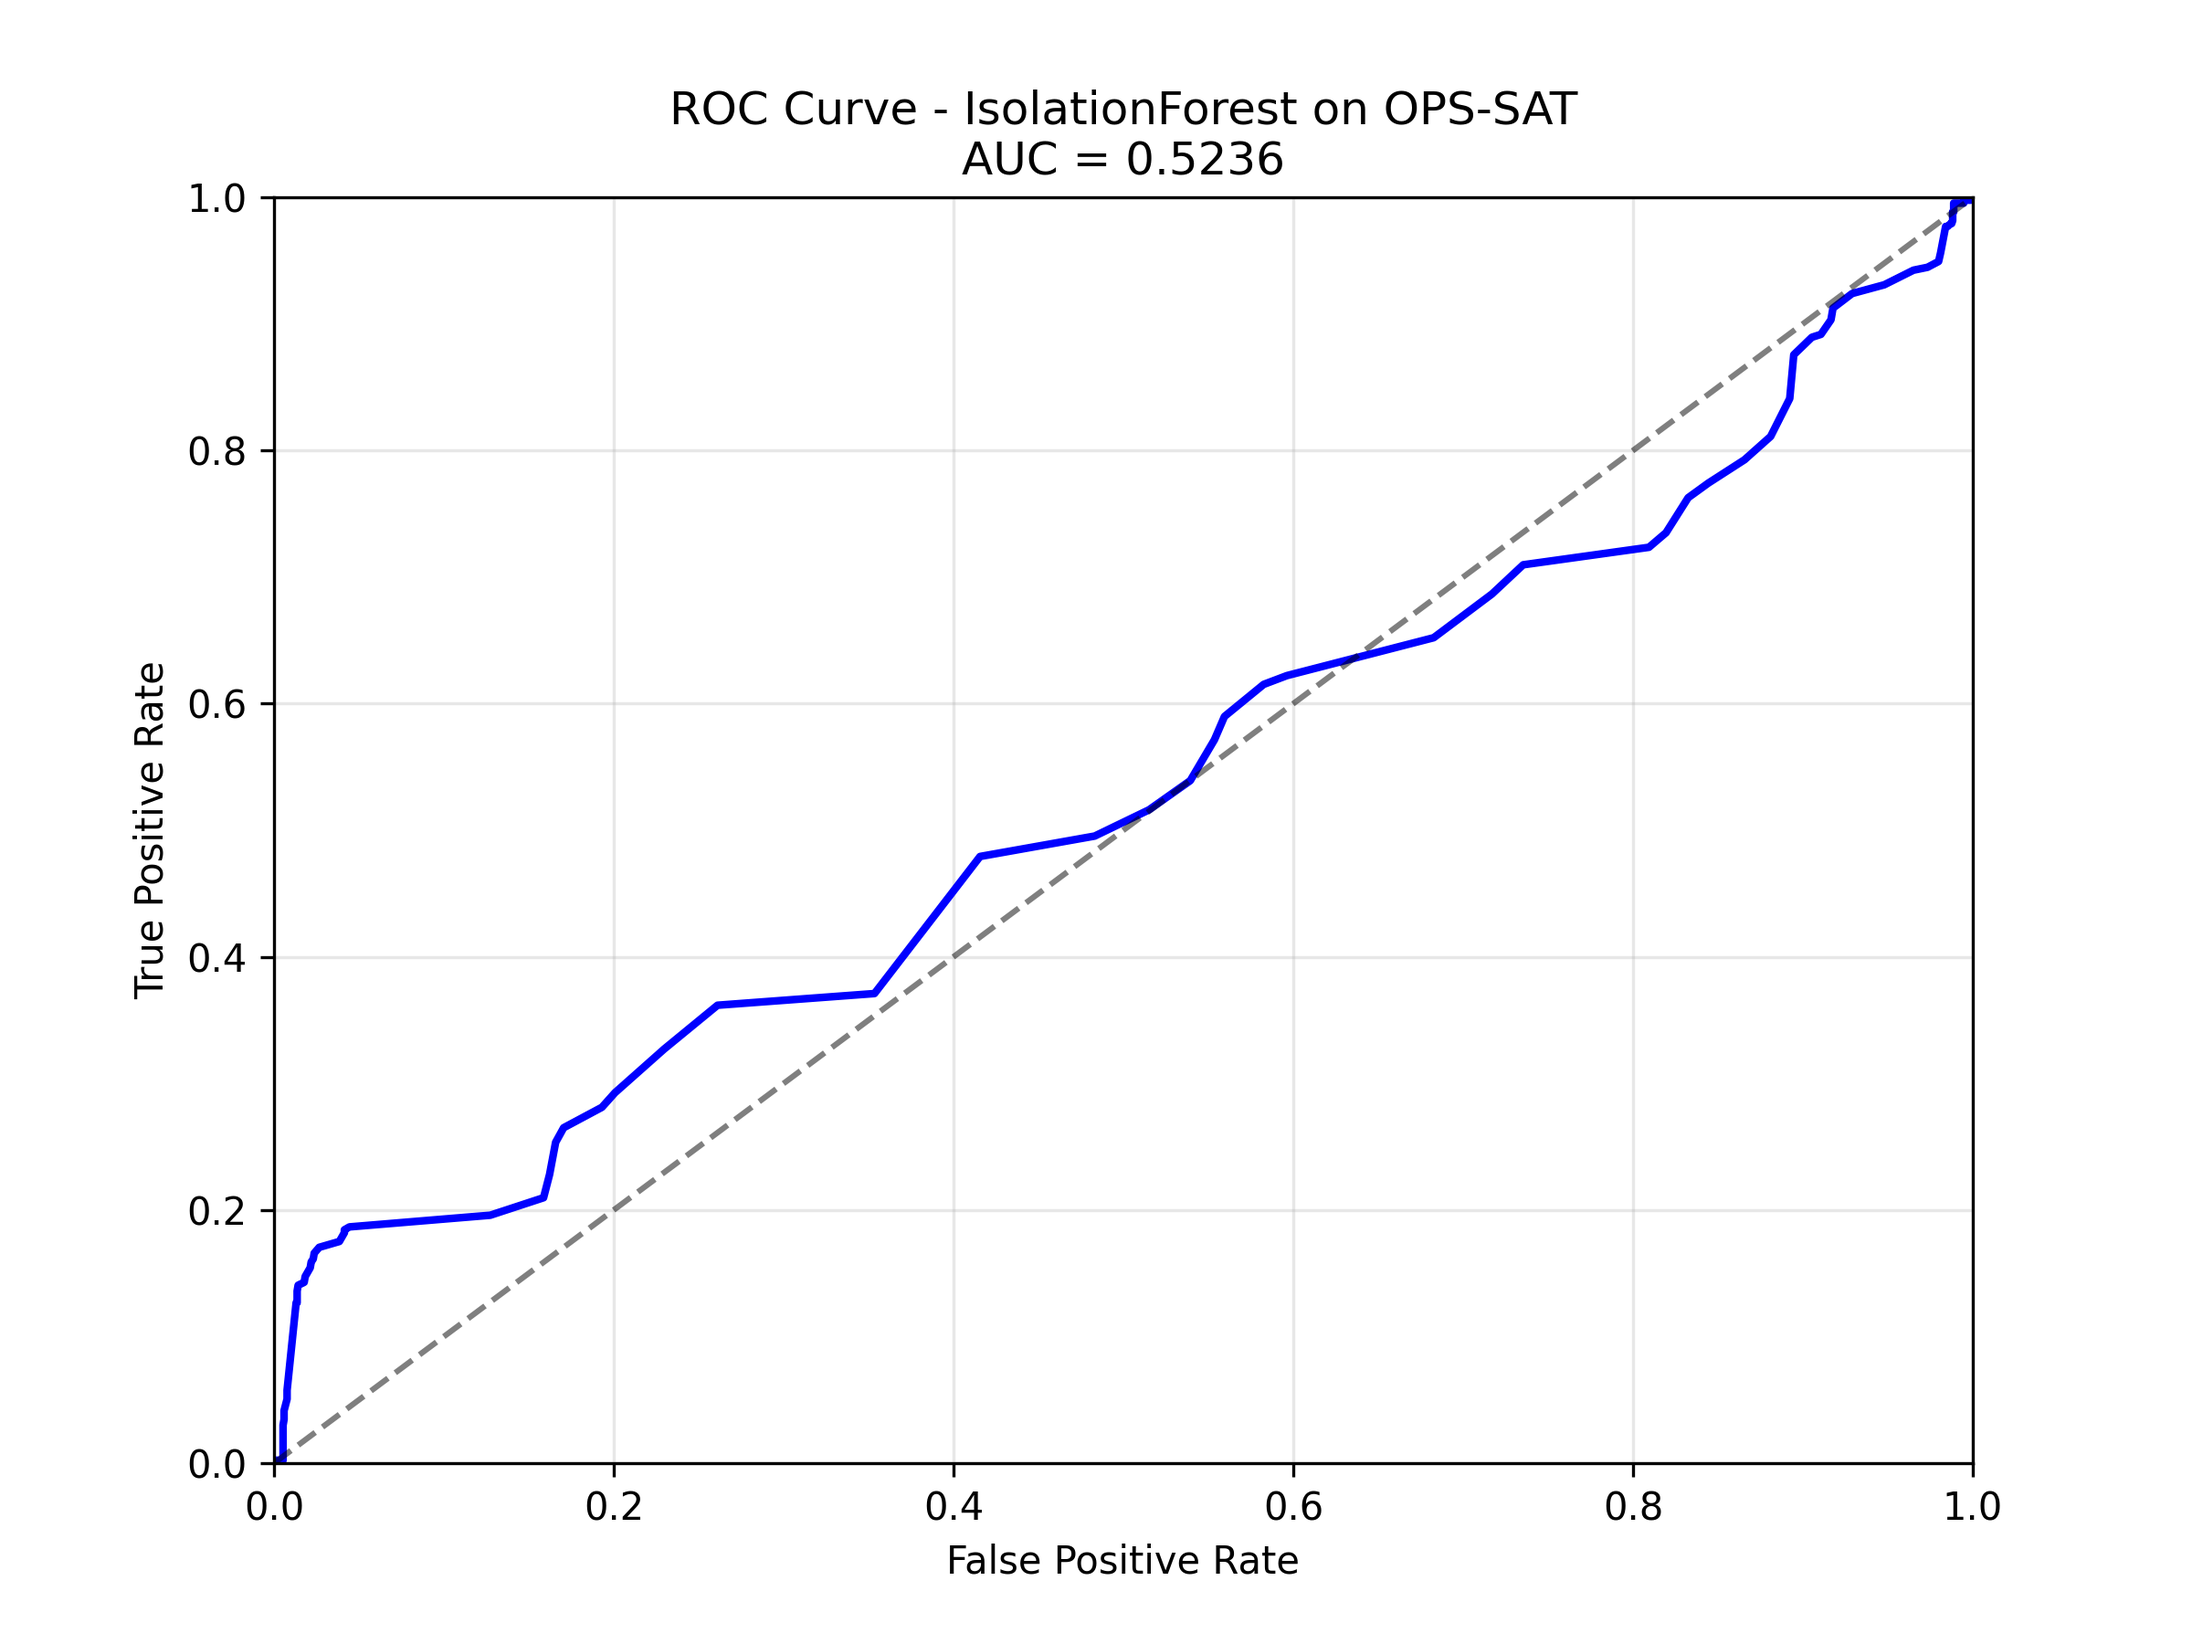
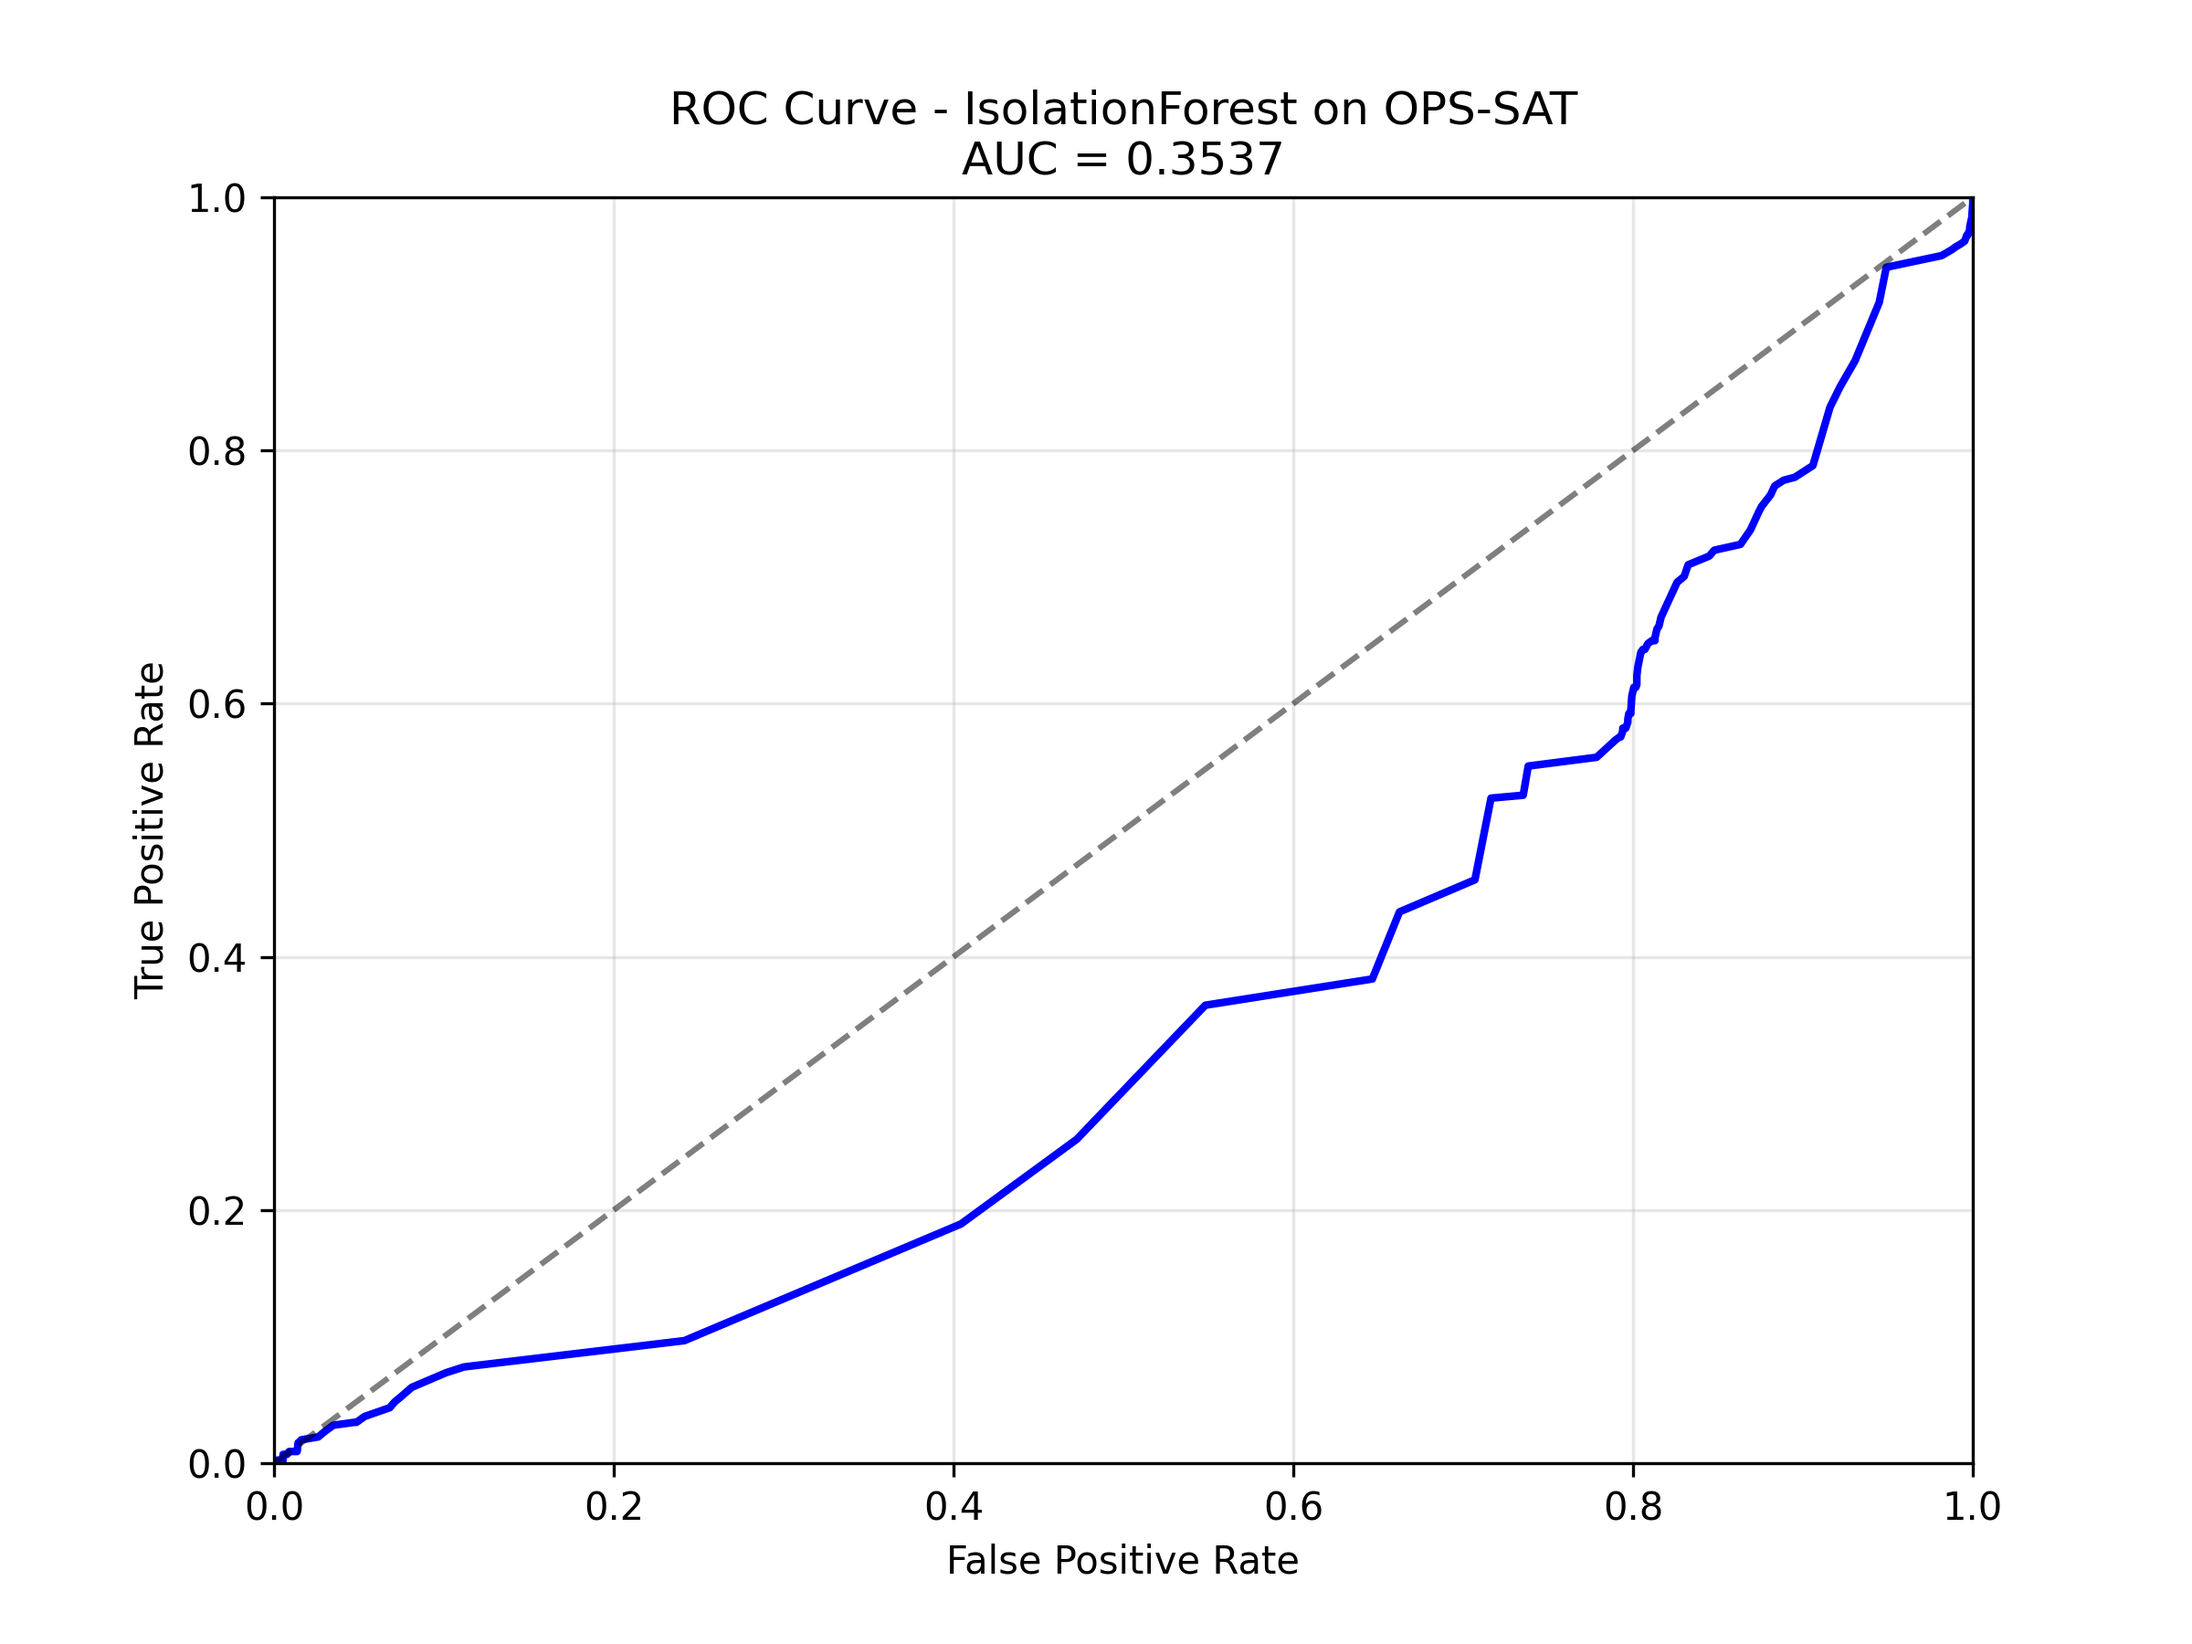
Conflict resolved

diff --git a/algorithms/Iforets_on_OPS-SAT.cpp b/algorithms/Iforets_on_OPS-SAT.cpp
@@ -71,7 +71,7 @@ int main() { //example implementation
     // Calculate anomaly scores for all samples
     vector<double> scores;
     for (const auto& sample : allSamples) {
-        double score = forest.NormalizedScore(sample);
+        double score = 1.0 - forest.NormalizedScore(sample); //Library is wrong
         scores.push_back(score);
     }
     

diff --git a/README.md b/README.md
@@ -1,8 +1,53 @@
-# IDS Evaluation Tool
-## Overview
-## Structure
-## Getting Started
-### Implementing your Algorithm
-### Helper Functions
-### Running the Evaluation Script
+# Overview
+The IDS Evaluation Tool is a comprehensive framework for developing, testing, and evaluating anomaly detection algorithms for Intrusion Detection Systems (IDS). This tool provides a standardized environment to implement, compile, and evaluate the performance of different detection algorithms on various datasets.
 
+# File Structure
+The IDS Evaluation Tool follows a specific directory structure to organize algorithms, datasets, helper functions, and results. Below is an overview of the file structure:
+
+```
+IDS_evaluation_tool/
+├── algorithms/           # Your detection algorithms (.cpp files)
+│   ├── exe/              # Compiled algorithm executables
+│   ├── models/           # Trained models (if applicable)
+│   └── ROC_CSV/          # ROC curve data points
+├── datasets/             # Test datasets 
+│   └── OPS-SAT-AD/       # OPS-SAT anomaly detection dataset
+├── helper/               # Helper functions and utilities
+│   ├── helper_functions.cpp  # Common evaluation functions
+│   └── plot_roc_curve.py     # ROC curve plotting utility
+├── lib/                  # External libraries
+│   └── LibIsolationForest/   # Isolation Forest implementation
+├── results/              # Evaluation results and ROC plots
+├── run_evaluation.sh     # Main evaluation script
+└── README.md             # This file
+```
+
+# Algorithm Implementation Example
+To implement your algorithm, create a new `.cpp` file in the `algorithms/` directory. Below is a template for your algorithm implementation:
+
+```cpp
+// filepath: algorithms/YourAlgorithm_on_Dataset.cpp
+#include "../helper/helper_functions.h"
+// Include any other required libraries
+
+using namespace std;
+
+int main() {
+    // Load and prepare data
+    vector<vector<string>> data = readCSV(true, "../datasets/YourDataset/data/dataset.csv");
+    
+    // Process data
+    vector<double> scores;  // Your anomaly scores
+    vector<bool> isAnomaly; // Ground truth labels
+    
+    // Your algorithm implementation here
+    
+    // Evaluate algorithm performance
+    auto results = evaluateAlgorithm(scores, isAnomaly, "YourAlgorithm", "YourDataset");
+    
+    return 0;
+}
+```
+
+# Running the Evaluation
+To run the evaluation of your algorithm on the dataset, execute the `run_evaluation.sh` script after placing your algorithm and dataset in the appropriate directories. This script will compile your algorithm, run the evaluation, and generate the results and ROC plots.
